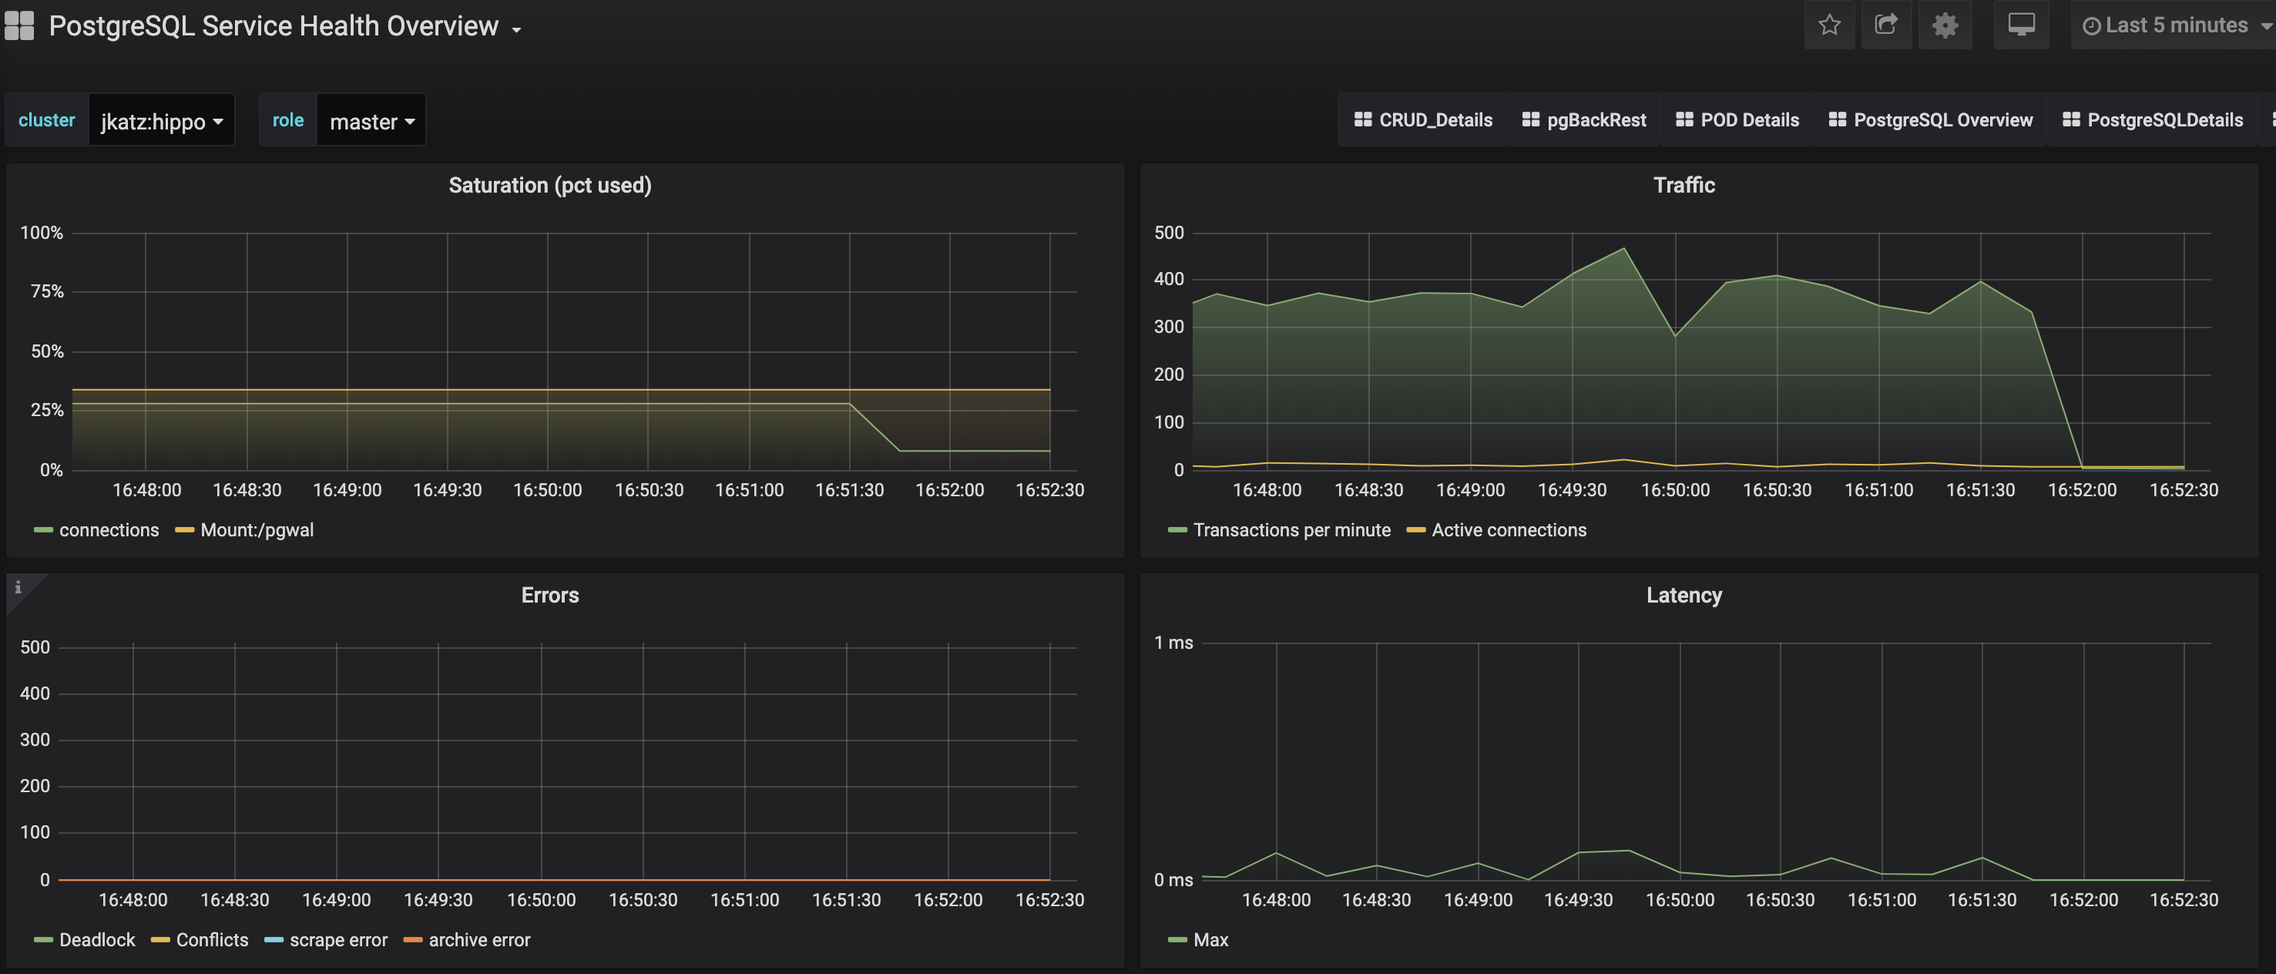
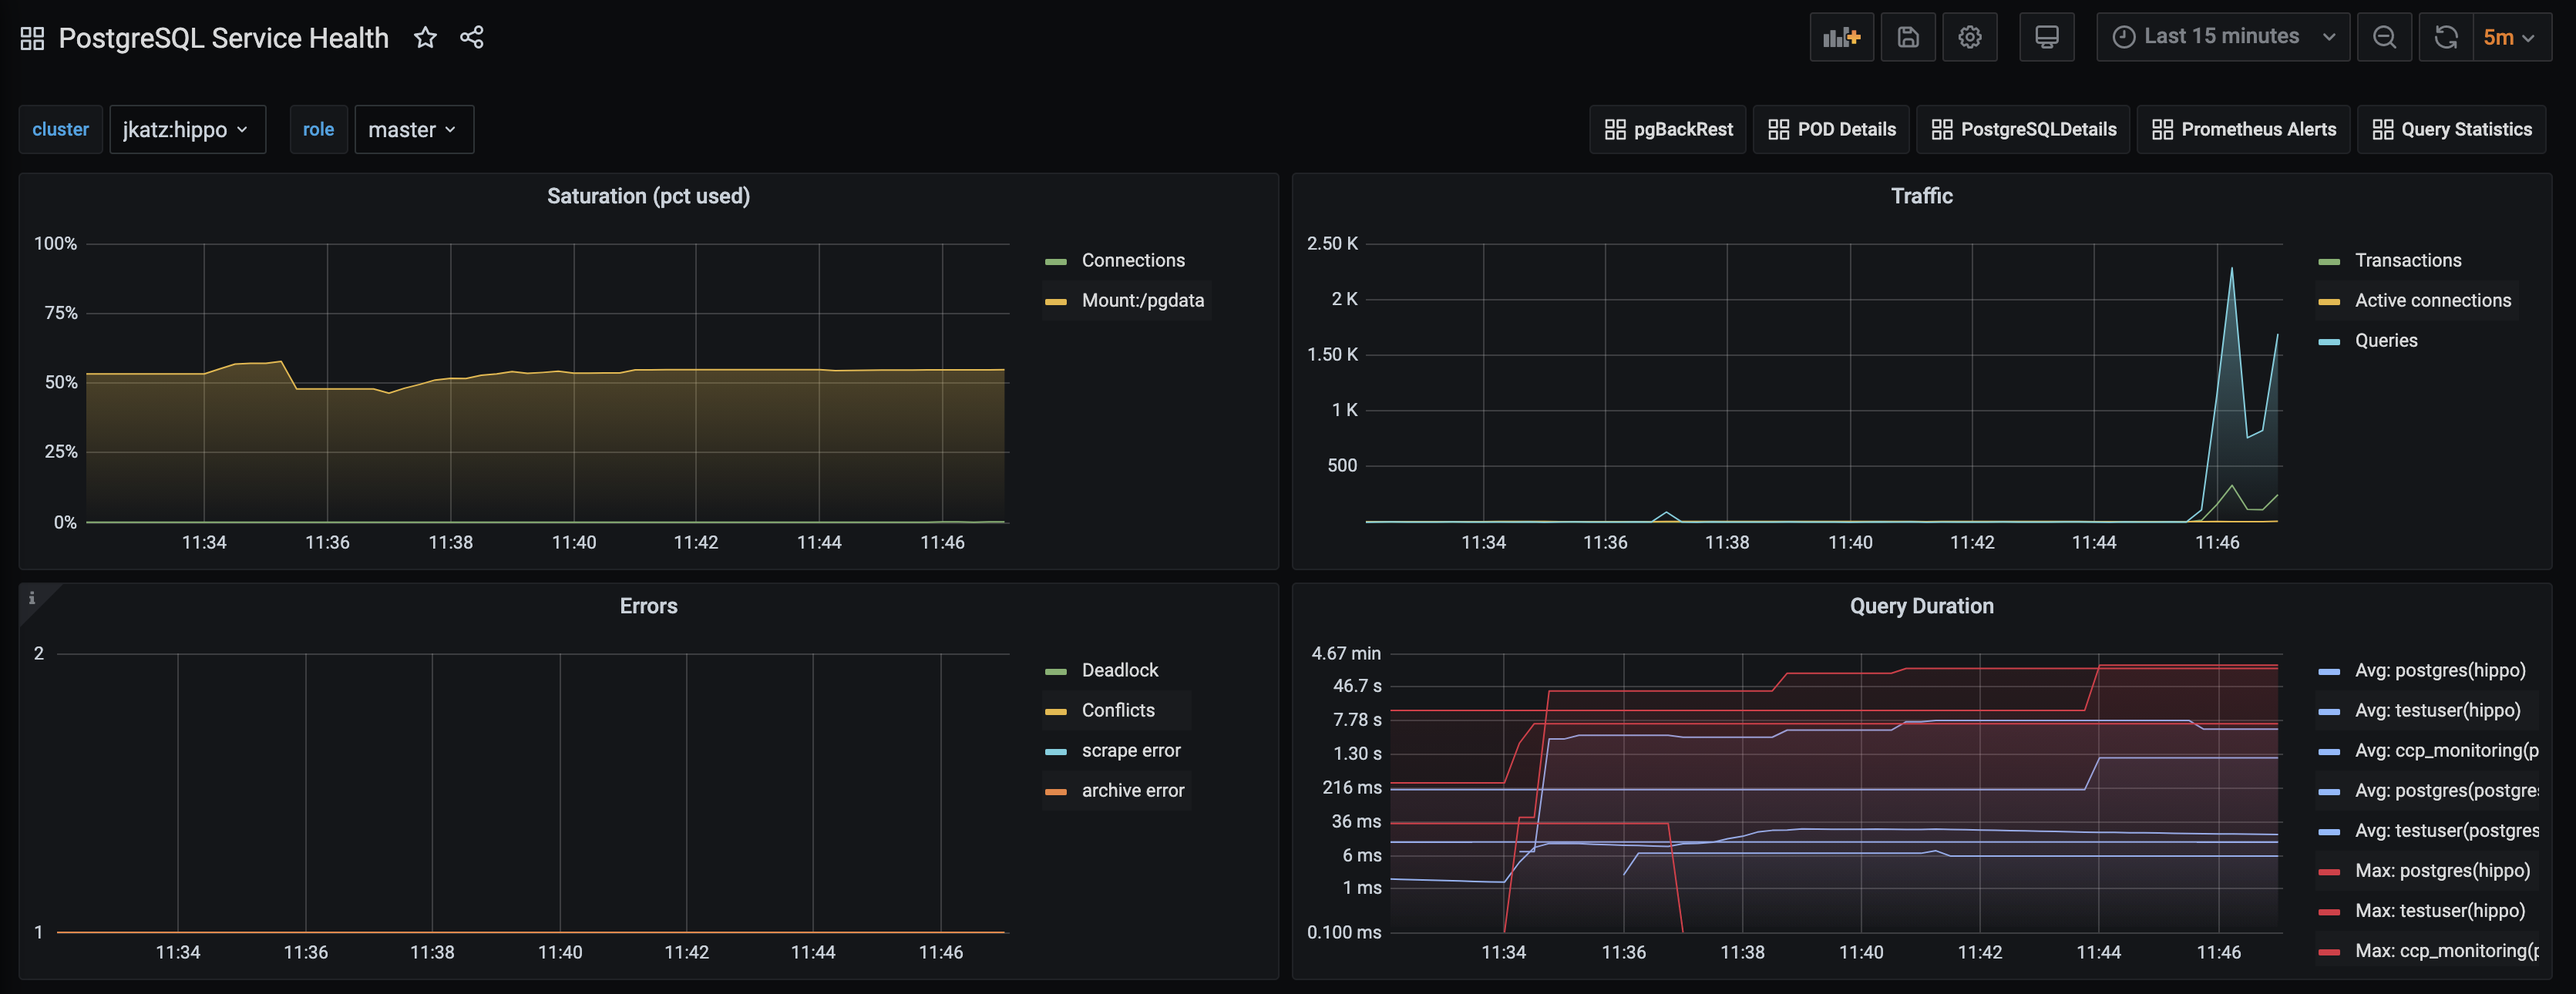
Update monitoring documentation
This updates the monitoring documentation to describe the
enhancements that were added in 994846e35.

diff --git a/docs/content/architecture/monitoring.md b/docs/content/architecture/monitoring.md
@@ -173,6 +173,39 @@ and limit as well as actually utilization.
 device.
 - Container ResourceS: The CPU and memory limits and requests.
 
+### Backups
+
+![PostgreSQL Operator - Monitoring - Backup Health](/images/postgresql-monitoring-backups.png)
+
+There are a variety of reasons why you need to monitoring your backups, starting
+from answering the fundamental question of "do I have backups available?"
+Backups can be used for a variety of situations, from cloning new clusters to
+restoring clusters after a disaster. Additionally, Postgres can run into issues
+if your backup repository is not healthy, e.g. if it cannot push WAL archives.
+If your backups are set up properly and healthy, you will be set up to mitigate
+the risk of data loss!
+
+The backup, or pgBackRest panel, will provide information about the overall
+state of your backups. This includes:
+
+- Recovery Window: This is an indicator of how far back you are able to restore
+your data from. This represents all of the backups and archives available in
+your backup repository. Typically, your recovery window should be close to your
+overall data retention specifications.
+- Time Since Last Backup: this indicates how long it has been since your last
+backup. This is broken down into pgBackRest backup type (full, incremental,
+differential) as well as time since the last WAL archive was pushed.
+- Backup Runtimes: How long the last backup of a given type (full, incremental
+differential) took to execute. If your backups are slow, consider providing more
+resources to the backup jobs and tweaking pgBackRest's performance tuning
+settings.
+- Backup Size: How large the backups of a given type (full, incremental,
+differential).
+- WAL Stats: Shows the metrics around WAL archive pushes. If you have failing
+pushes, you should to see if there is a transient or permanent error that is
+preventing WAL archives from being pushed. If left untreated, this could end up
+causing issues for your Postgres cluster.
+
 ### PostgreSQL Service Health Overview
 
 ![PostgreSQL Operator Monitoring - Service Health Overview](/images/postgresql-monitoring-service.png)
@@ -189,6 +222,43 @@ handling.
 - Errors: Displays the total number of errors occurring at a particular Service.
 - Latency: What the overall network latency is when interfacing with the
 Service.
+
+### Query Runtime
+
+![PostgreSQL Operator Monitoring - Query Performance](/images/postgresql-monitoring-query-total.png)
+
+Looking at the overall performance of queries can help optimize a Postgres
+deployment, both from [providing resources]({{< relref "tutorial/customize-cluster.md" >}}) to query tuning in the application
+itself.
+
+You can get a sense of the overall activity of a PostgreSQL cluster from the
+chart that is visualized above:
+
+- Queries Executed: The total number of queries executed on a system during the
+period.
+- Query runtime: The aggregate runtime of all the queries combined across the
+system that were executed in the period.
+- Query mean runtime: The average query time across all queries executed on the
+system in the given period.
+- Rows retrieved or affected: The total number of rows in a database that were
+either retrieved or had modifications made to them.
+
+PostgreSQL Operator Monitoring also further breaks down the queries so you can
+identify queries that are being executed too frequently or are taking up too
+much time.
+
+![PostgreSQL Operator Monitoring - Query Analysis](/images/postgresql-monitoring-query-topn.png)
+
+- Query Mean Runtime (Top N): This highlights the N number of slowest queries by
+average runtime on the system. This might indicate you are missing an index
+somewhere, or perhaps the query could be rewritten to be more efficient.
+- Query Max Runtime (Top N): This highlights the N number of slowest queries by
+absolute runtime. This could indicate that a specific query or the system as a
+whole may need more resources.
+- Query Total Runtime (Top N): This highlights the N of slowest queres by
+aggregate runtime. This could indicate that a ORM is looping over a single query
+and executing it many times that could possibly be rewritten as a single, faster
+query.
 
 ### Alerts
 
